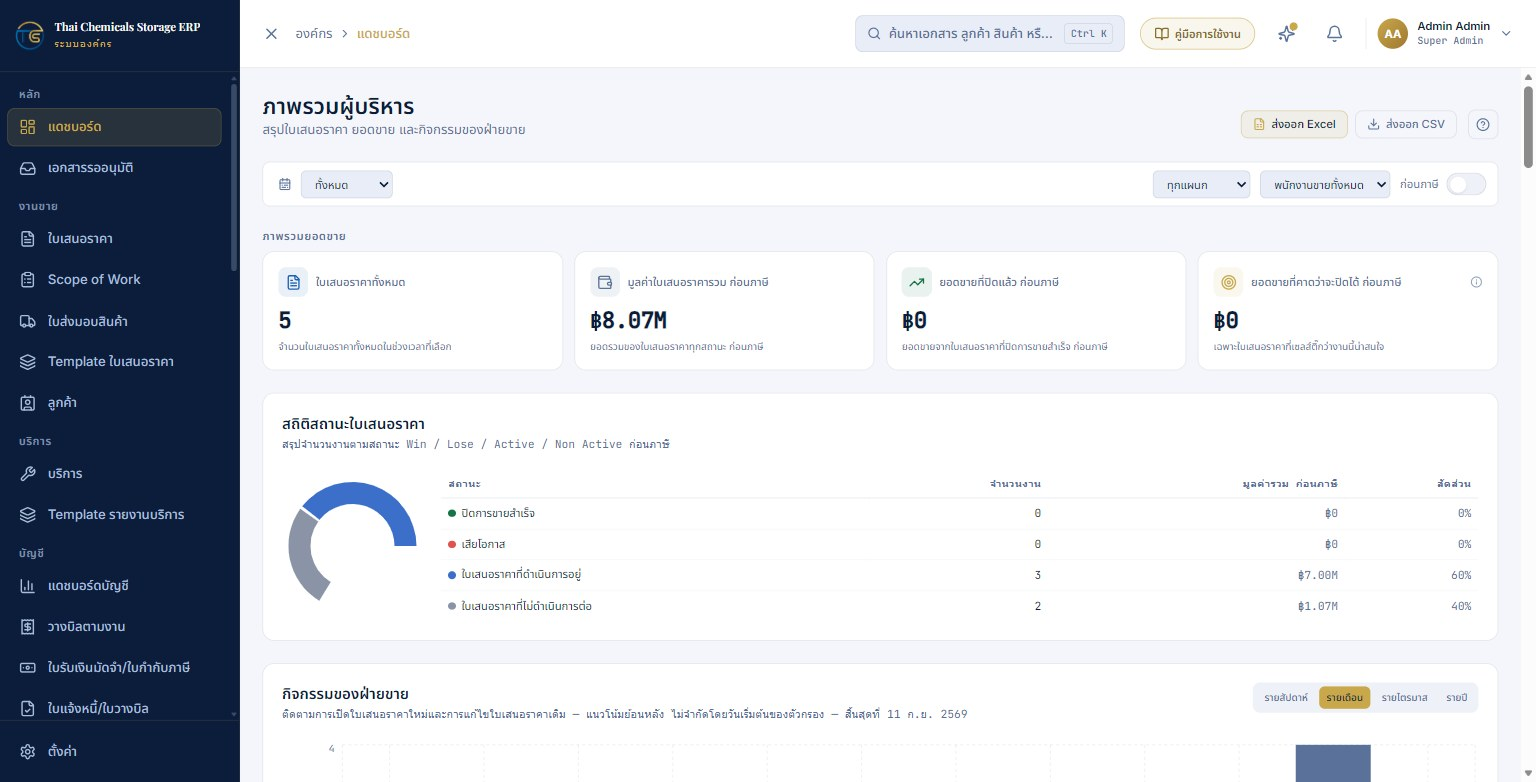
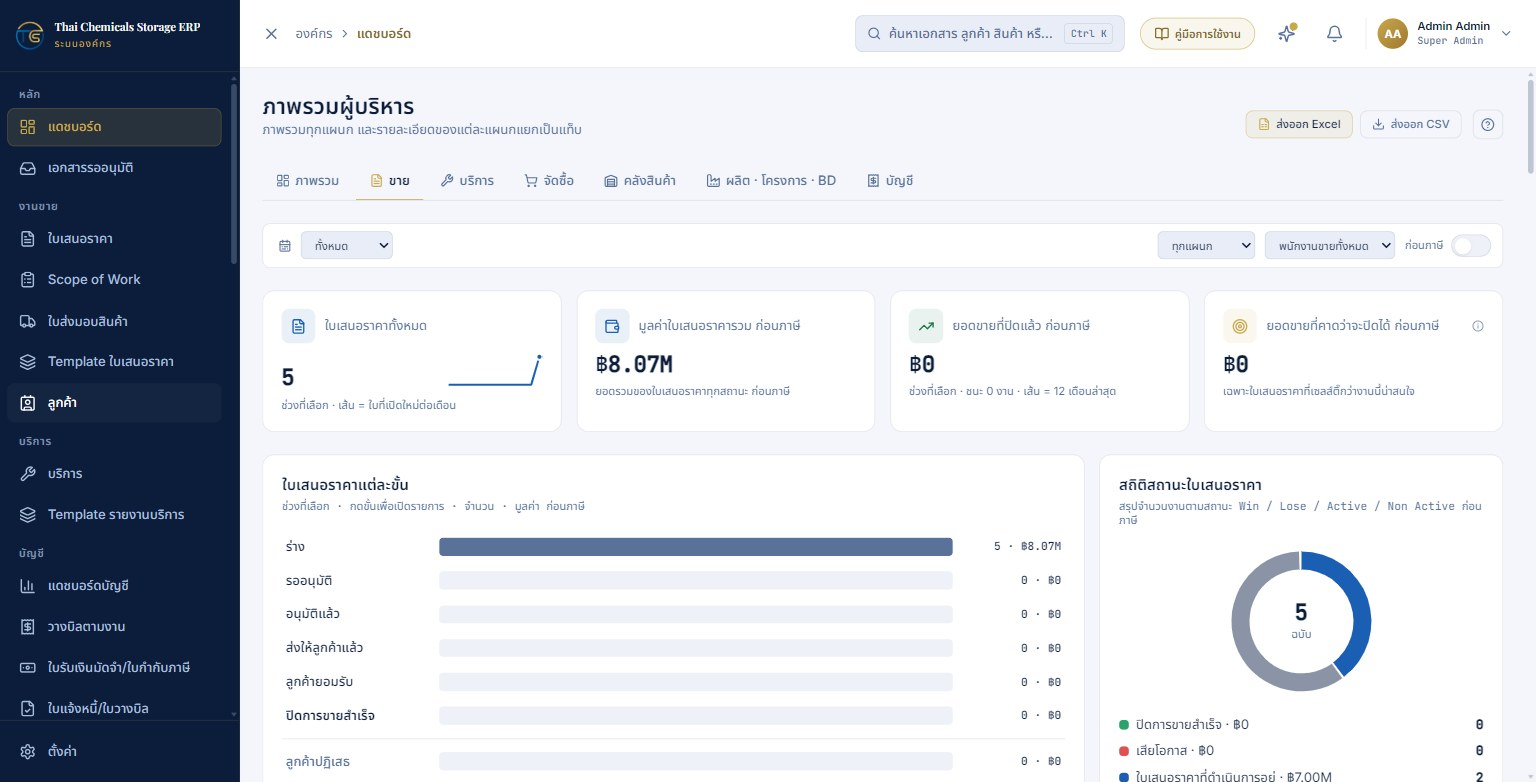
ถ่ายภาพคู่มือบทแดชบอร์ดใหม่ ปิดงานภาพที่ค้างมาตั้งแต่ 14 ก.ย.
02-dashboard.jpg ถ่ายใหม่เป็นแท็บขาย ให้ตรงกับหัวข้อ h3 แท็บขาย ที่ภาพอยู่ใต้
คำบรรยายเดิมเขียนว่า "ภาพหน้าแดชบอร์ดขายก่อนแยกแท็บ" ซึ่งเป็นคำขอโทษที่ภาพล้าสมัย
เปลี่ยนเป็นคำอธิบายจริงของสิ่งที่อยู่ในภาพ

ภาพใหม่ 52-dashboard-overview.jpg แท็บภาพรวม พร้อม figure วางก่อนหัวข้อแท็บขาย
บทที่ 4 อธิบายแท็บทั้ง 8 มาตั้งแต่ 14 ก.ย. แต่ไม่เคยมีภาพของแท็บภาพรวมให้ดู

ทั้งสองภาพถ่ายที่ 1536x782 เท่าชุดเดิม และเลื่อนแถบเมนูข้างขึ้นบนสุดให้กรอบภาพตรงกับ
ภาพอื่นในคู่มือ

วิธีถ่ายเหมือนรอบบทจัดซื้อ ผู้ใช้ชั่วคราวในฐาน dev ในเครื่อง ชื่อแสดงผล Admin Admin
ลบผู้ใช้กับ session ทิ้งหลังถ่ายเสร็จ ตรวจซ้ำแล้วเหลือ 6 บัญชีเดิม ไม่แตะ production

diff --git a/public/manual.html b/public/manual.html
@@ -651,10 +651,14 @@
       <tr><td><b>บัญชี</b></td><td>เหมือนเมนูแดชบอร์ดบัญชีทุกอย่าง</td></tr>
     </table></div>
     <div class="callout"><b>ดูไม่เห็นบางแท็บ?</b> แต่ละแท็บขึ้นตามสิทธิ์ดูเอกสารของแผนกนั้น ไม่ต้องตั้งสิทธิ์อะไรเพิ่ม · ระบบจำแท็บล่าสุดไว้ให้ และลิงก์ในแถบที่อยู่ (เช่น <code>#dashboard/inventory</code>) ส่งต่อให้คนอื่นเปิดแท็บเดียวกันได้ · ตัวเลขที่ไม่มีป้าย "ช่วงที่เลือก" คือยอด ณ ปัจจุบัน ไม่ขึ้นกับช่วงวันที่</div>
+    <figure>
+      <img src="/manual-images/52-dashboard-overview.jpg" width="1536" height="782" alt="แท็บภาพรวมของแดชบอร์ด" loading="lazy" />
+      <figcaption>แท็บ <b>ภาพรวม</b> — แถบแท็บอยู่ใต้หัวข้อหน้า · การ์ดตัวเลขสำคัญด้านบน · กล่อง <b>เอกสารรออนุมัติทุกแผนก</b> ทางขวาบอกว่ามีอะไรรอคุณอยู่กี่ใบ</figcaption>
+    </figure>
     <h3>แท็บขาย</h3>
     <figure>
-      <img src="/manual-images/02-dashboard.jpg" width="1536" height="782" alt="หน้าแดชบอร์ด" loading="lazy" />
-      <figcaption>ภาพหน้าแดชบอร์ดขายก่อนแยกแท็บ — เนื้อหาเดียวกับแท็บขายในปัจจุบัน</figcaption>
+      <img src="/manual-images/02-dashboard.jpg" width="1536" height="782" alt="แท็บขายของแดชบอร์ด" loading="lazy" />
+      <figcaption>แท็บ <b>ขาย</b> — ปุ่มส่งออก Excel/CSV อยู่มุมขวาบน · ตัวกรองช่วงวันที่ แผนก และพนักงานขาย อยู่แถวบนสุดของแท็บ</figcaption>
     </figure>
     <ul>
       <li><b>การ์ดสรุป 4 ใบ</b> — มูลค่ารวม จำนวนใบเสนอราคา อัตราชนะงาน และยอดคาดการณ์ (ทุกยอดเงินเป็นมูลค่า<b>ก่อนภาษี</b>)</li>

diff --git a/docs/TODO.md b/docs/TODO.md
@@ -132,12 +132,11 @@
 และรวม ผลิต · โครงการ · BD เป็นแท็บเดียว (CHANGELOG.md 2026-09-14c)
 
 งานต่อที่เหลือจากรอบนี้:
-- [ ] ถ่ายภาพ `public/manual/02-dashboard.jpg` ใหม่ และแก้บทที่ 4 ของ `public/manual.html` ให้พูดถึงกราฟ แท็บรวม ผลิต · โครงการ · BD และรายการ "ต้องจัดการก่อน"
+- [x] ✅ **เสร็จ 2026-09-21** ถ่ายภาพ `public/manual/02-dashboard.jpg` ใหม่ และแก้บทที่ 4 ของ `public/manual.html` ให้พูดถึงกราฟ แท็บรวม ผลิต · โครงการ · BD และรายการ "ต้องจัดการก่อน"
 - [ ] ให้เจ้าของดูแดชบอร์ดใหม่บนข้อมูลจริง (production) — ตรวจแล้วบนฐานข้อมูลในเครื่องเท่านั้น
 - [ ] ย้าย `CodeRegisterPage` และ `ToolControlPage` มาใช้ `src/components/Tabs.tsx` แทนแท็บที่เขียนเอง
 - [ ] ปุ่มส่งออก Excel ของแท็บภาพรวม/แท็บแผนก — ตอนนี้ส่งออกได้เฉพาะแท็บขาย ต้องออกแบบชีตใหม่ ไม่ใช่เทแถวเดิม
-- [ ] ถ่ายภาพ `public/manual-images/02-dashboard.jpg` ใหม่ (คู่มือบทที่ 4 แก้ข้อความแล้ว แต่ภาพยังเป็นหน้าเดิม)
-  — ภาพของบทจัดซื้อถ่ายใหม่ครบแล้ว 2026-09-21 ข้อนี้เหลือเฉพาะแดชบอร์ด
+- [x] ✅ **เสร็จ 2026-09-21** ถ่ายภาพ `public/manual-images/02-dashboard.jpg` ใหม่ (เป็นแท็บขายตามหัวข้อที่ภาพอยู่ใต้) พร้อมเพิ่มภาพแท็บภาพรวม `52-dashboard-overview.jpg` — ภาพของบทจัดซื้อถ่ายใหม่ครบแล้วเช่นกัน
 - [ ] ใบสั่งผลิต/ใบสั่งงานยังไม่มีสถานะ "ทำเสร็จ" — ตัวเลข "เลยกำหนด" บนแท็บผลิต/โครงการจึงนับใบที่เสร็จไปแล้วด้วย
 
 เจ้าของสั่ง *"ช่วยทำหน้า dashboard แยกออกมาแบบชัดเจนหน่อยให้แบบ ให้ดูง่ายว่าอันไหนเป็นของแผนกไหน
@@ -194,7 +193,7 @@ Cost Control) ตั้งแต่ 2026-08-28 ถึง 2026-09-10
 ### ถ้าทำแล้วต้องตามไปแก้ด้วย
 
 - [x] `docs/MODULES/Dashboard.md` — โครงหน้าใหม่และเหตุผลที่เลือกแบบนั้น
-- [x] `public/manual.html` **บทที่ 4 แดชบอร์ด** — แก้ข้อความแล้ว (ภาพยังเป็นของเดิม ดูงานต่อข้างบน)
+- [x] `public/manual.html` **บทที่ 4 แดชบอร์ด** — แก้ข้อความแล้ว และถ่ายภาพใหม่ครบแล้ว 2026-09-21
 - [x] `WHATS_NEW_ENTRIES`
 
 

diff --git a/docs/CHANGELOG.md b/docs/CHANGELOG.md
@@ -4,7 +4,20 @@
 
 ---
 
-## 2026-09-21n (absolute latest) — ถ่ายภาพคู่มือบทจัดซื้อใหม่ทั้งชุด
+## 2026-09-21o (absolute latest) — ถ่ายภาพคู่มือบทแดชบอร์ดใหม่ (ปิดงานภาพคู่มือที่ค้างมาตั้งแต่ 14 ก.ย.)
+
+- **`02-dashboard.jpg` ถ่ายใหม่เป็น *แท็บขาย*** ให้ตรงกับหัวข้อ `<h3>แท็บขาย</h3>` ที่ภาพอยู่ใต้ ·
+  คำบรรยายเดิมเขียนว่า *"ภาพหน้าแดชบอร์ดขายก่อนแยกแท็บ"* ซึ่งเป็นคำขอโทษที่ภาพล้าสมัย — เปลี่ยนเป็น
+  คำอธิบายจริงของสิ่งที่อยู่ในภาพ (ปุ่มส่งออก Excel/CSV · ตัวกรองช่วงวันที่/แผนก/พนักงานขาย)
+- **ภาพใหม่ `52-dashboard-overview.jpg`** — แท็บ *ภาพรวม* พร้อม `<figure>` วางไว้ก่อนหัวข้อแท็บขาย
+  บทที่ 4 อธิบายแท็บทั้ง 8 มาตั้งแต่ 14 ก.ย. แต่ไม่เคยมีภาพของแท็บภาพรวมให้ดูเลย
+- ภาพทั้งสองถ่ายที่ 1536×782 เท่าชุดเดิม และเลื่อนแถบเมนูข้างขึ้นบนสุดให้กรอบภาพตรงกับภาพอื่นในคู่มือ
+
+วิธีถ่ายเหมือนรอบบทจัดซื้อทุกประการ: ผู้ใช้ชั่วคราวในฐาน dev ในเครื่อง ชื่อแสดงผล `Admin Admin`
+**ลบผู้ใช้กับ session ทิ้งหลังถ่ายเสร็จ** (ตรวจซ้ำแล้วเหลือ 6 บัญชีเดิม) · ไม่แตะ production · เปิดดูอย่างเดียว
+
+---
+## 2026-09-21n — ถ่ายภาพคู่มือบทจัดซื้อใหม่ทั้งชุด
 
 ปิดข้อสุดท้ายของ *"แก้ให้หมด"* — เนื้อหาบทที่ 18 อัปเดตไปตั้งแต่เฟส 10 แต่ภาพยังเป็นหน้าจอก่อนแก้
 

diff --git a/docs/MODULES/Dashboard.md b/docs/MODULES/Dashboard.md
@@ -929,3 +929,9 @@ pass — see [RBAC.md](../RBAC.md).
   (both configs)/`npm run lint`/`npm run build` only — the arithmetic change itself was not
   re-exercised against a live quote's data in this pass; that spot-check remains an open item for
   whoever next has live-database access.
+
+## ภาพในคู่มือ (2026-09-21)
+
+ภาพบทที่ 4 ของ `public/manual.html` ถ่ายใหม่แล้วหลังการแยกแท็บเมื่อ 2026-09-14 —
+`02-dashboard.jpg` เป็น **แท็บขาย** (ตรงกับหัวข้อ `<h3>แท็บขาย</h3>` ที่ภาพอยู่ใต้) และเพิ่มภาพใหม่
+`52-dashboard-overview.jpg` ของ **แท็บภาพรวม** ซึ่งไม่เคยมีภาพมาก่อนทั้งที่บทอธิบายแท็บทั้ง 8 ไว้แล้ว
